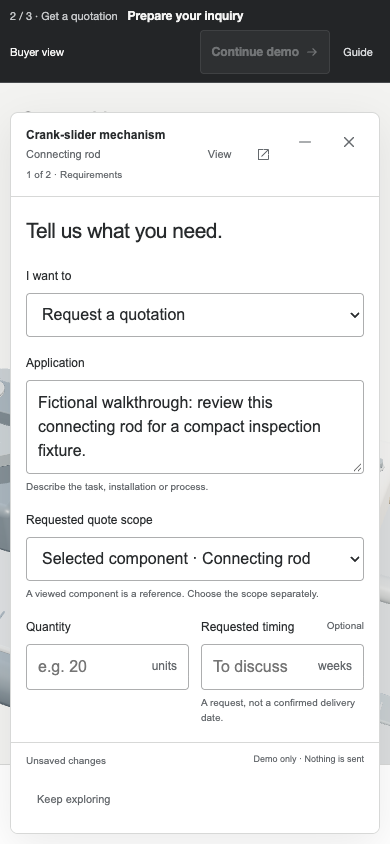
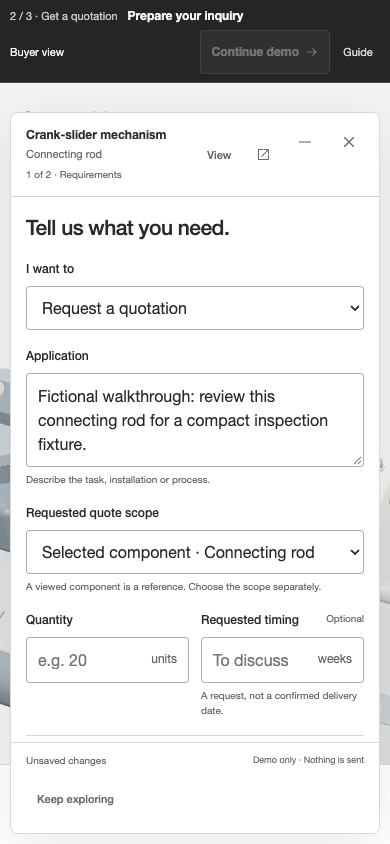
Record verified request layout release [skip ci]

diff --git a/docs/request-layout-review.md b/docs/request-layout-review.md
@@ -1,6 +1,10 @@
 # Inquiry, revision and confirmation layout
 
-Status: candidate verified; publication pending. The release receipt records the actual deployed revision.
+Status: published and verified.
+
+Application revision: `16c83189158af90cd69465ca07d175c63d555707`.
+See the [release receipt](evidence/request-layout/release-receipt.json).
+This documentation-only follow-up does not redeploy the application.
 
 ## Review route
 
@@ -110,15 +114,19 @@ identical. The design detector reported no findings.
 Public screenshot review caught a circular font alias in the floating surface.
 The correction restores the canonical font stack; 12 focused checkpoints across
 four viewports confirm 22 px desktop and 21 px phone task headings, along with
-review, confirmation and real pointer access. Public qualification is repeated
+review, confirmation and real pointer access. Public qualification was repeated
 against the corrective deployment.
 
 [Acceptance evidence](evidence/request-layout/acceptance.json) records the suites
-and their limits. Public-target identity and browser results are recorded after
-GitHub deployment.
+and their limits. The final public deployment passed another 46 full-journey checkpoints and
+16 explicit confirmations on desktop and phone, including the corrected heading
+typography. See [public browser evidence](evidence/request-layout/public-browser.json).
+The publication audit verified 61 runtime assets, 72 model assets and 567
+protected source files. The integration package matches the reviewed archive.
 
 ## Review captures
 
+- [Floating review on desktop](evidence/request-layout/desktop-floating-review.png)
 - [Floating inquiry on mobile](evidence/request-layout/mobile-floating-inquiry.png)
 - [Requested changes and source quotation](evidence/request-layout/desktop-change-review.png)
 - [Buyer next-step review](evidence/request-layout/mobile-next-step-review.png)
